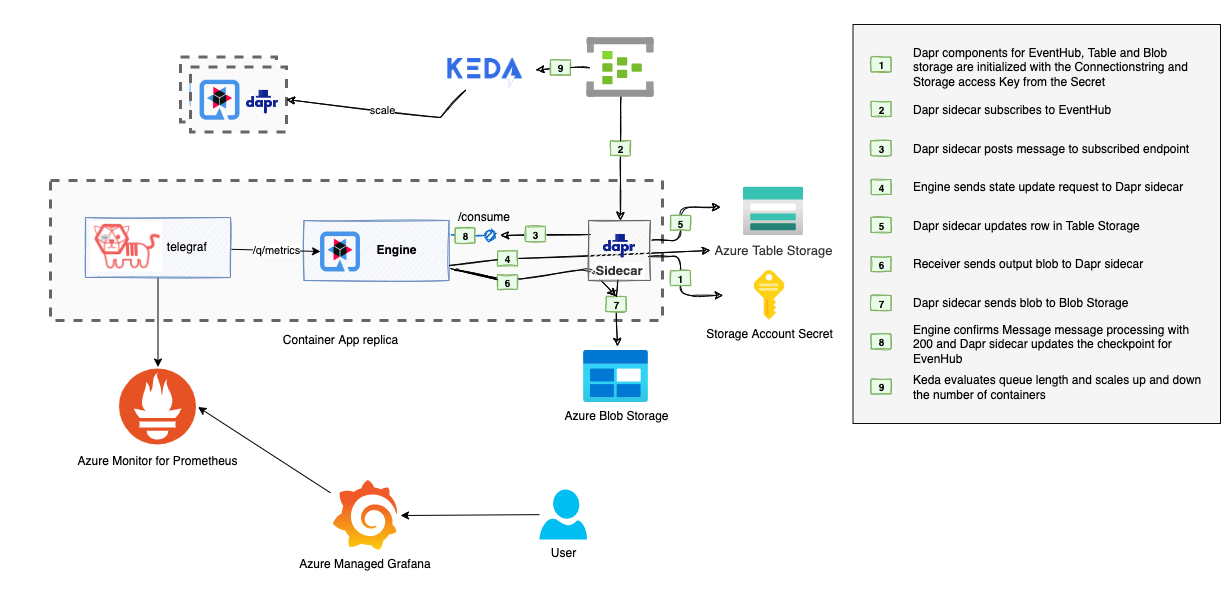
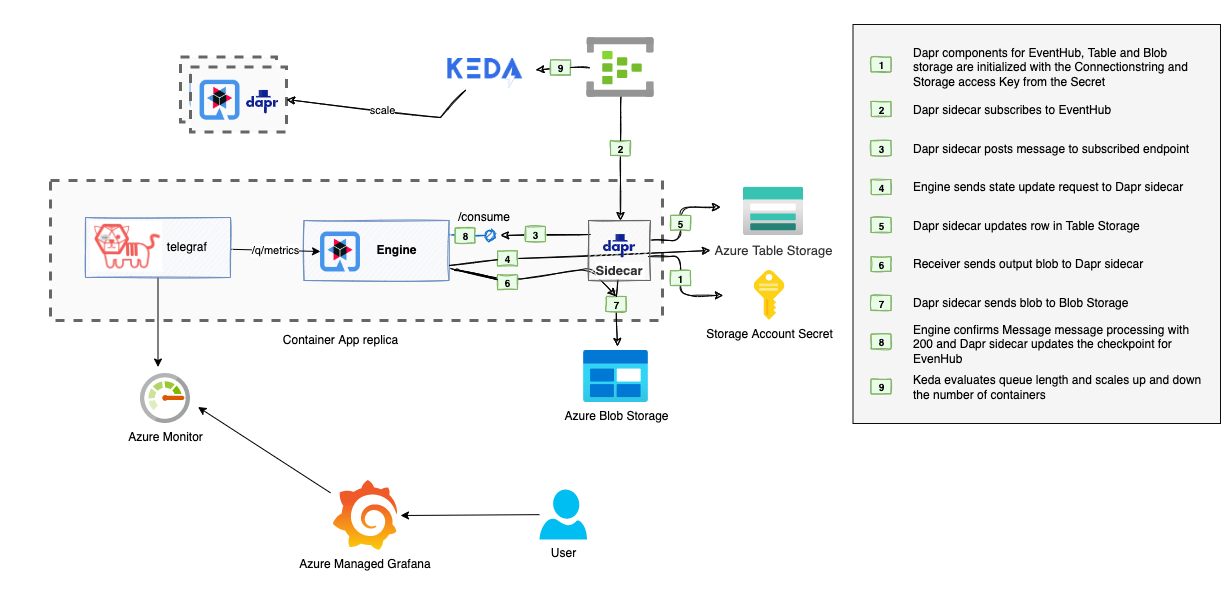
updated azure monitor reference

diff --git a/README.md b/README.md
@@ -7,7 +7,7 @@ The objective is ensure the following requirements:
 - Automatic scale to 0 using Keda in Azure Container Apps
 - Ensuring that each instance is only processing one job at a time
 - Publishin application and runtime metrics via Micrometer
-- Scrapping metrics via telegraf sidecar and publish them to Azure Monitor for Prometheus
+- Scrapping metrics via telegraf sidecar and publish them to Azure Monitor
 - Using Azure Managed Grafana to build dashboards on jobengine execution times
 - Use the workload profiles to run multiple replicas on the same host to save costs
 
@@ -99,5 +99,5 @@ az rest --method POST --uri "https://graph.microsoft.com/beta/applications/$AZUR
 ```
 
 ## Monitoring builtin and custom Java metrics using Micrometer
-Using the telegraf sidecar we can public builtin and custom metrics via Micrometer, scrap the `/q/metrics` endpoint via a dedicated telegraf sidecar, send metrics to the Azure Monitor managed service for Prometheus (https://learn.microsoft.com/en-Us/azure/azure-monitor/essentials/prometheus-metrics-overview) and query the results via PromQL in Azure Managed Grafana:
+Using the telegraf sidecar we can public builtin and custom metrics via Micrometer, scrap the `/q/metrics` endpoint via a dedicated telegraf sidecar, send metrics to the Azure Monitor and query the results via Azure Managed Grafana:
 ![](/img/graph.png)
